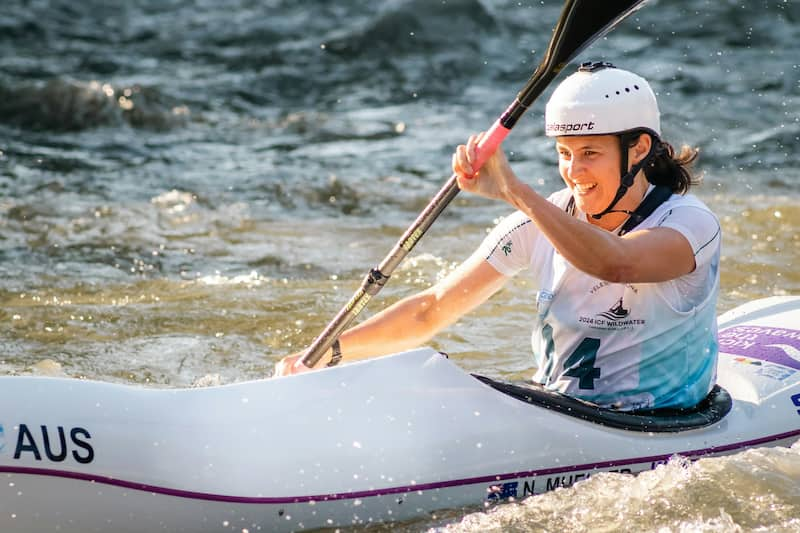
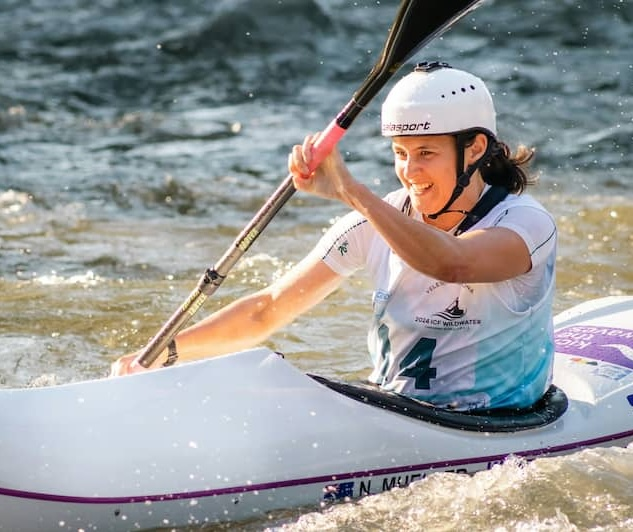
resized image, corrected html error

diff --git a/wwr/contact.html b/wwr/contact.html
@@ -27,10 +27,10 @@
     <main>
         <section class="company-info">
             <h1>Splash: White Water Rafting</h1>
-            <h5>1085 E Provo Canyon Rd</h5>
-            <h5>Orem, Utah</h5>
-            <h5>+1 999 786 5432</h5>
-            <h5>info@splashrafting.com</h5>
+            <h2>1085 E Provo Canyon Rd</h2>
+            <h2>Orem, Utah</h2>
+            <h2>+1 999 786 5432</h2>
+            <h2>info@splashrafting.com</h2>
         </section>
 
         <section class="map-form">
@@ -93,15 +93,15 @@
             <h2>We Are Here to Serve You</h2>
 
             <figure>
-                <img src="images/sam.jpg" alt="Photo by Terry Scott on Unsplash">
+                <img src="images/sam.jpg" alt="Photo of Sam by Terry Scott on Unsplash">
                 <figcaption>Founder: Sam</figcaption>
             </figure>
             <figure>
-                <img src="images/marcus.jpg" alt="Photo by Leeder Bose on Unsplash">
+                <img src="images/marcus.jpg" alt="Photo of Marcus by Leeder Bose on Unsplash">
                 <figcaption>Guide: Marcus</figcaption>
             </figure>
             <figure>
-                <img src="images/jenna.jpg" alt="Photo by Aleksandar Andreev on Unsplash">
+                <img src="images/jenna.jpg" alt="Photo of Jenna by Aleksandar Andreev on Unsplash">
                 <figcaption>Guide: Jenna</figcaption>
             </figure>
         </section>

diff --git a/wwr/styles/rafting.css b/wwr/styles/rafting.css
@@ -164,10 +164,19 @@ section img {
     text-align: center;
 }
 
-.company-info h1 {
+.company-info h1,
+.company-info h2 {
     background-color: var(--accent-color);
     color: var(--primary-color);
     margin-bottom: auto;
+}
+
+.company-info h2 {
+    font-family: var(--body-font);
+    color: var(--body-font-color);
+    font-size: 1rem;
+    margin: auto;
+    padding: .2rem;
 }
 
 .map-form {
